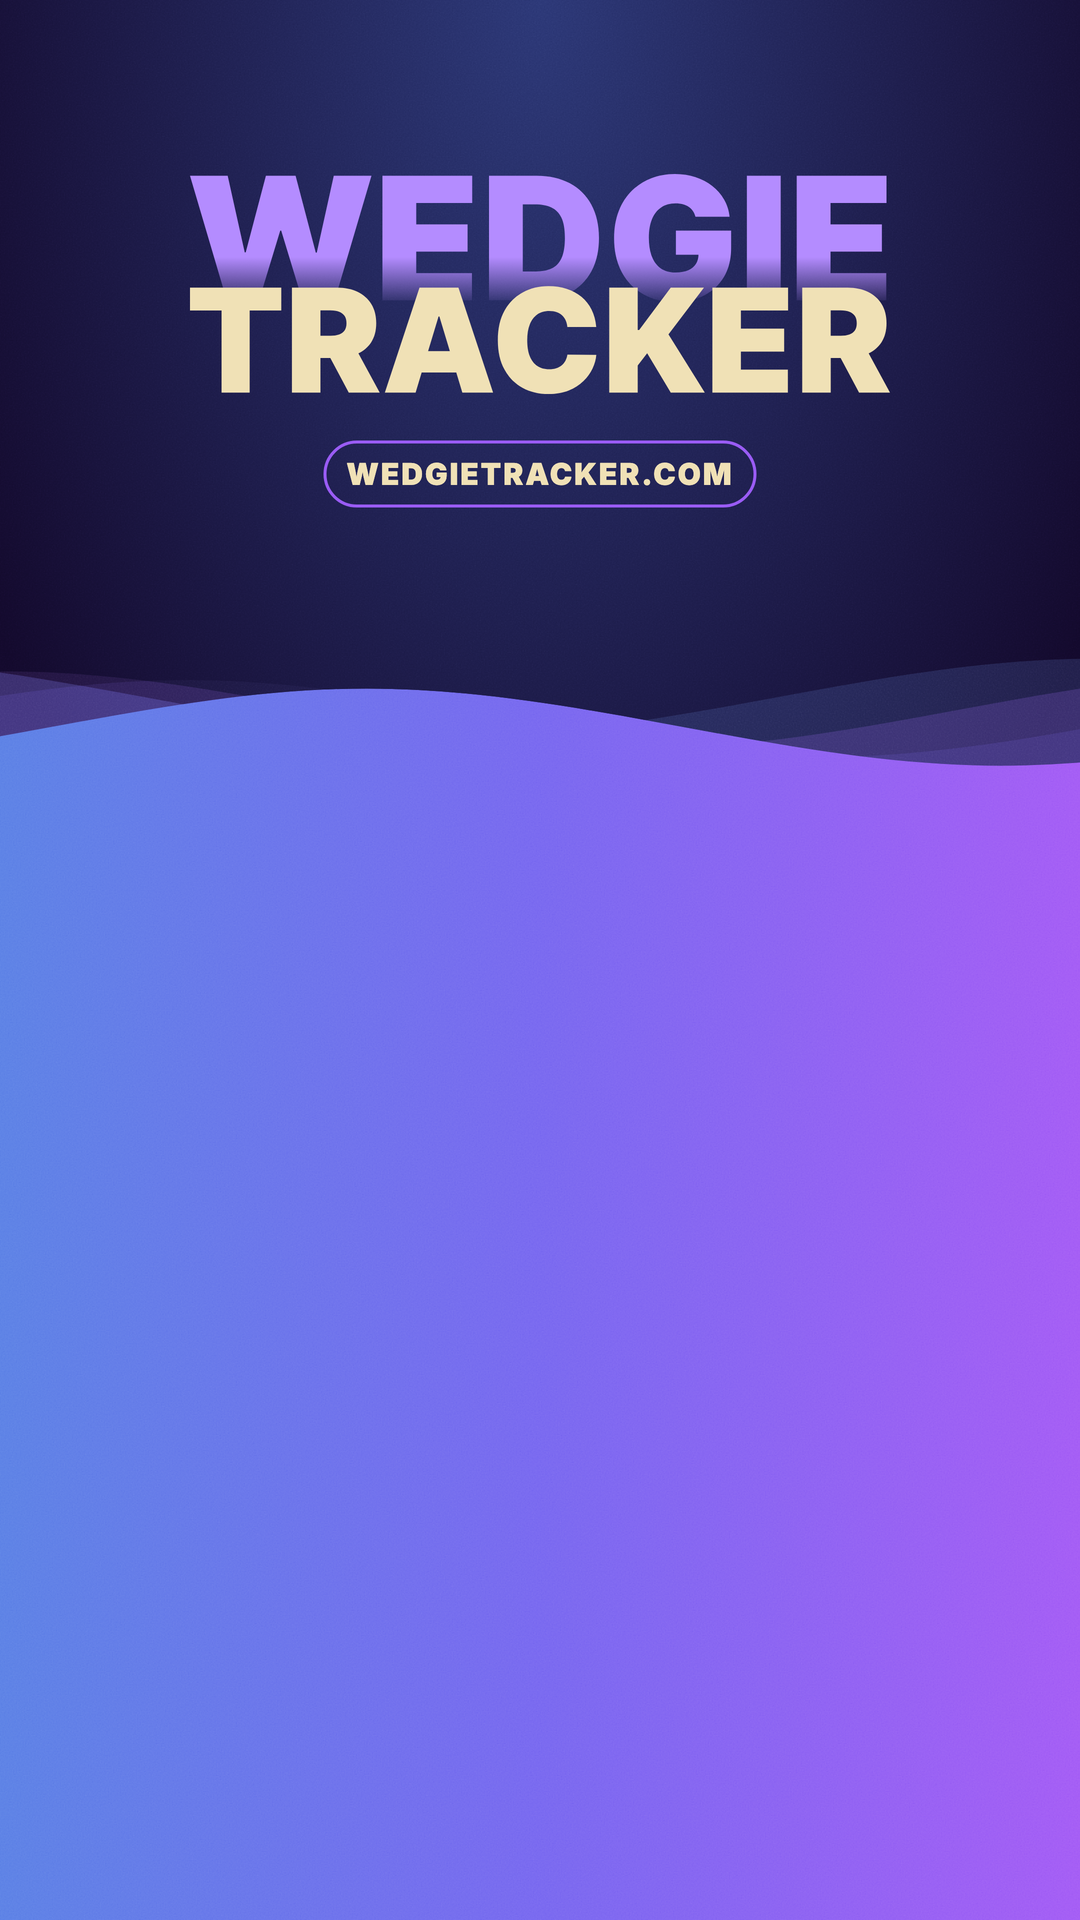
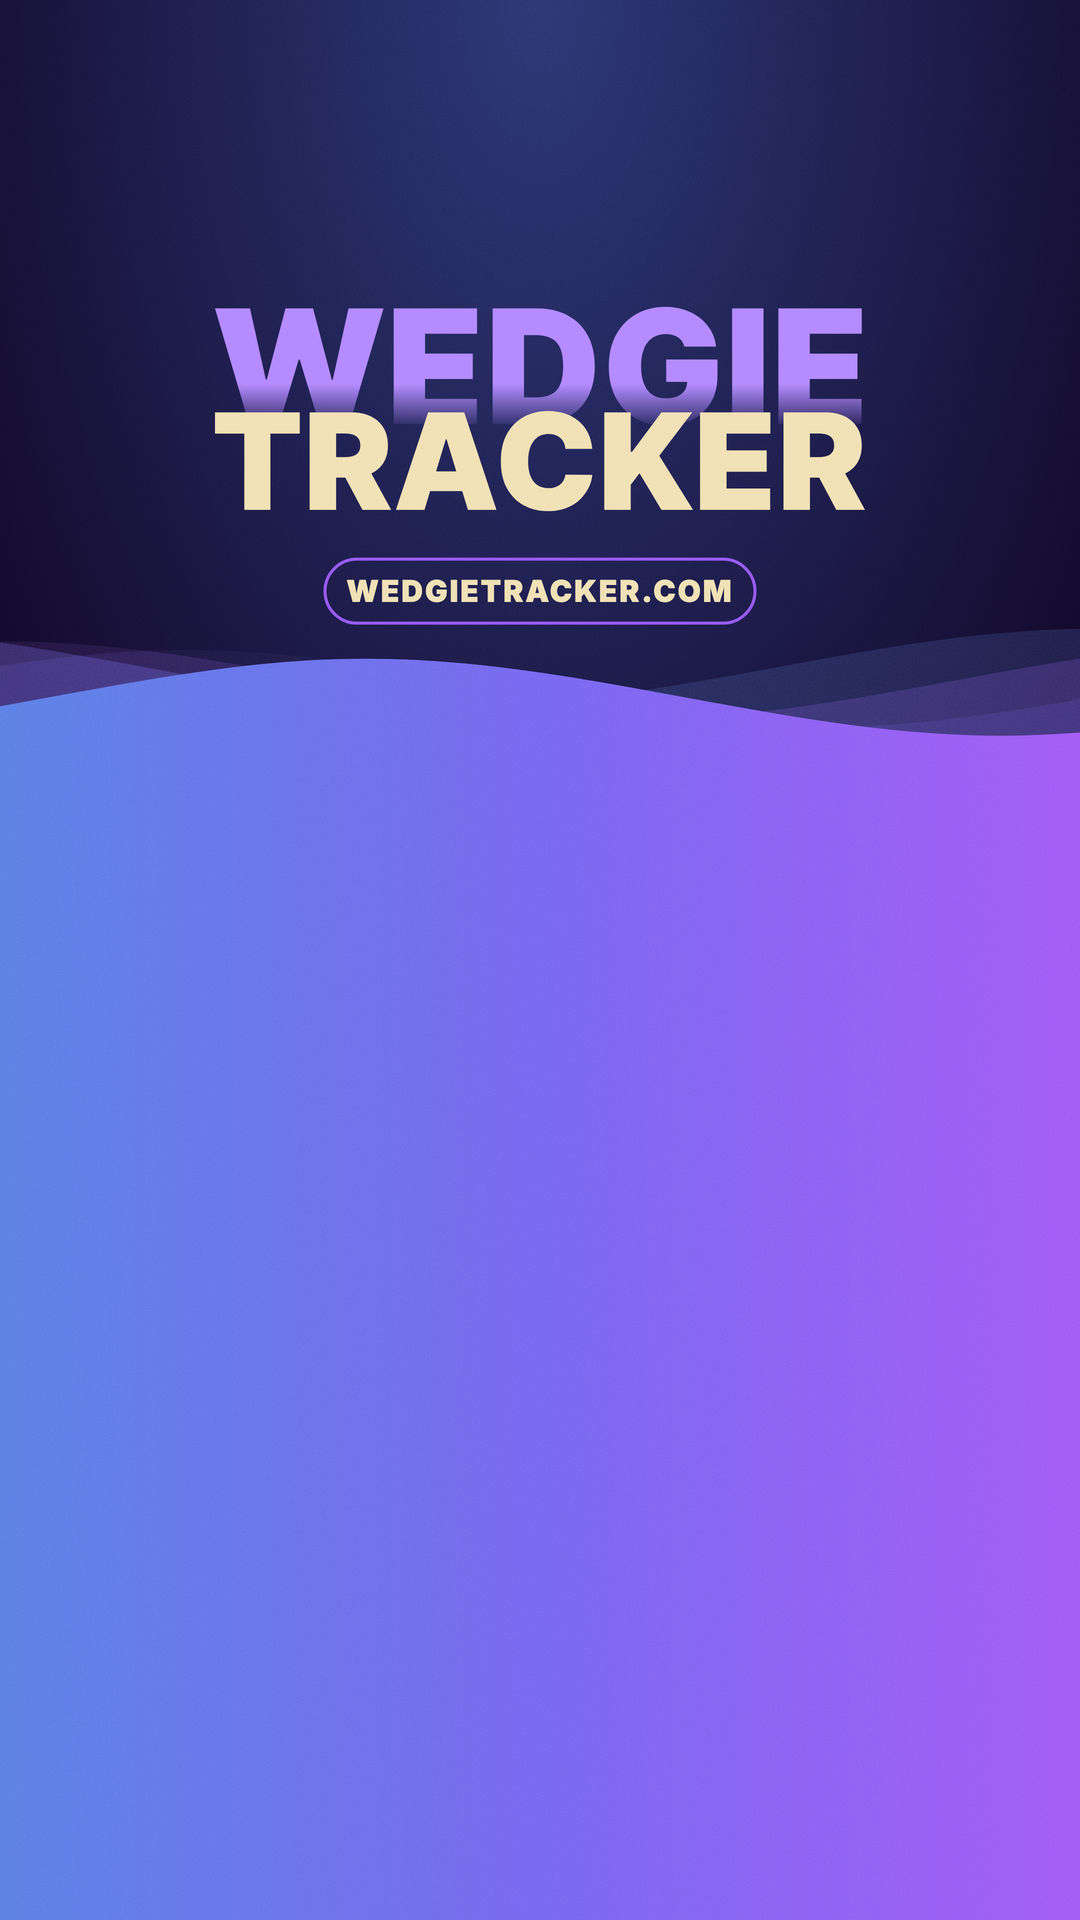
Keep the clip cover inside Instagram's profile grid crop
The profile grid shows a Reel's cover cropped to its middle 3:4, rows
480 to 3360 of the 2160x3840 cover, which cut off the top of the
wordmark and the date pill. The template's header now sits inside that
window (wordmark a little smaller), the wave and the number block start
60px higher, and the block is tightened so the pill ends about 100px
above the crop.

Changed region(s): [[0.0, 0.0938, 1.0, 0.4062]]

diff --git a/apps/web/src/lib/wedgieOverlay.ts b/apps/web/src/lib/wedgieOverlay.ts
@@ -72,16 +72,18 @@ interface Layout {
 
 function layout(type: OverlayType): Layout {
   if (type === "thumbnail") {
-    const zone = 1440;
+    // The cover shows in Instagram's profile grid cropped to the middle 3:4,
+    // rows 480 to 3360, so the whole block is laid out inside that.
+    const zone = 1380;
     const k = 2;
     return {
       k,
-      label: zone + 150 * k,
-      num: zone + 500 * k,
+      label: zone + 140 * k,
+      num: zone + 480 * k,
       numSize: 400 * k,
-      name: [zone + 690 * k, zone + 805 * k],
+      name: [zone + 660 * k, zone + 775 * k],
       nameSize: 112 * k,
-      row: zone + 975 * k,
+      row: zone + 925 * k,
     };
   }
   const zone = type === "reel" ? 1390 : 2770;
